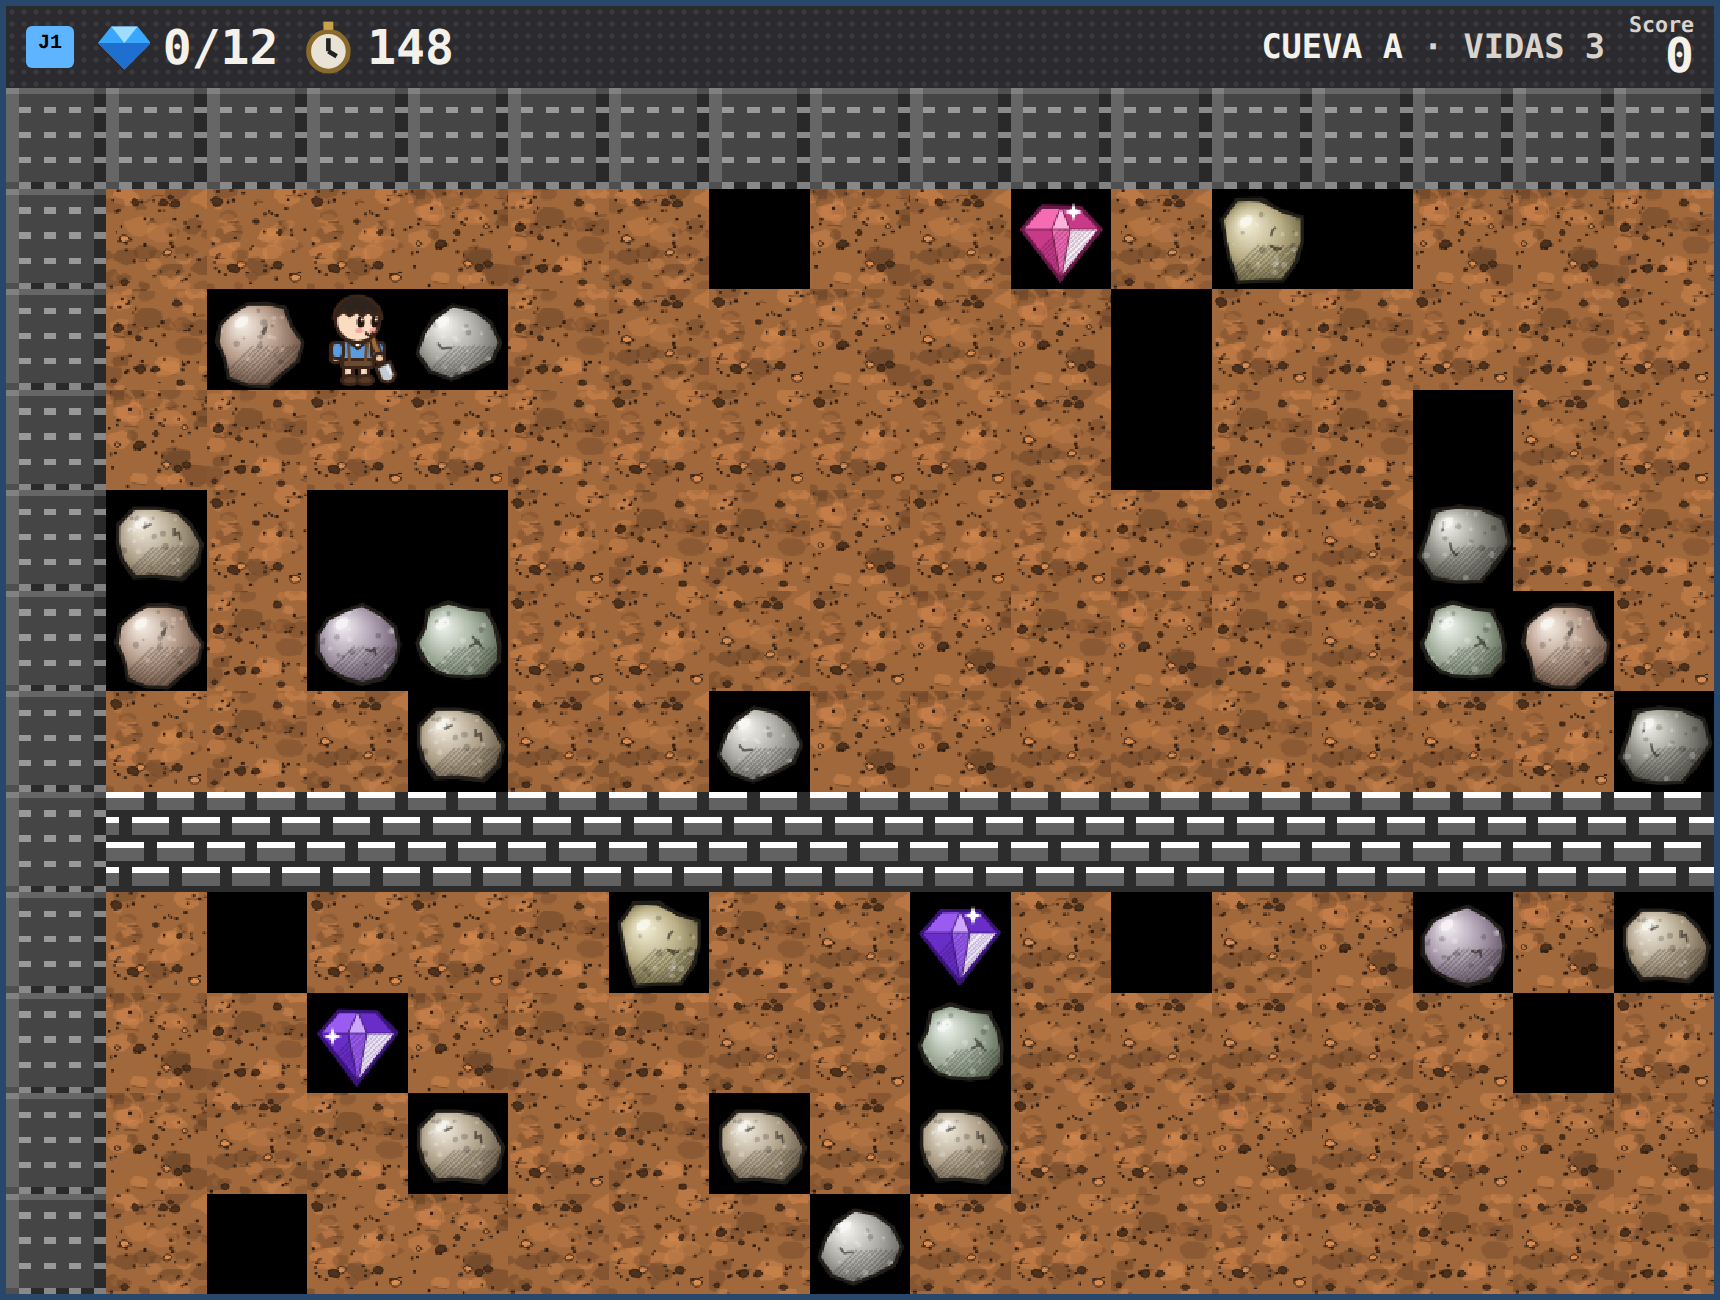
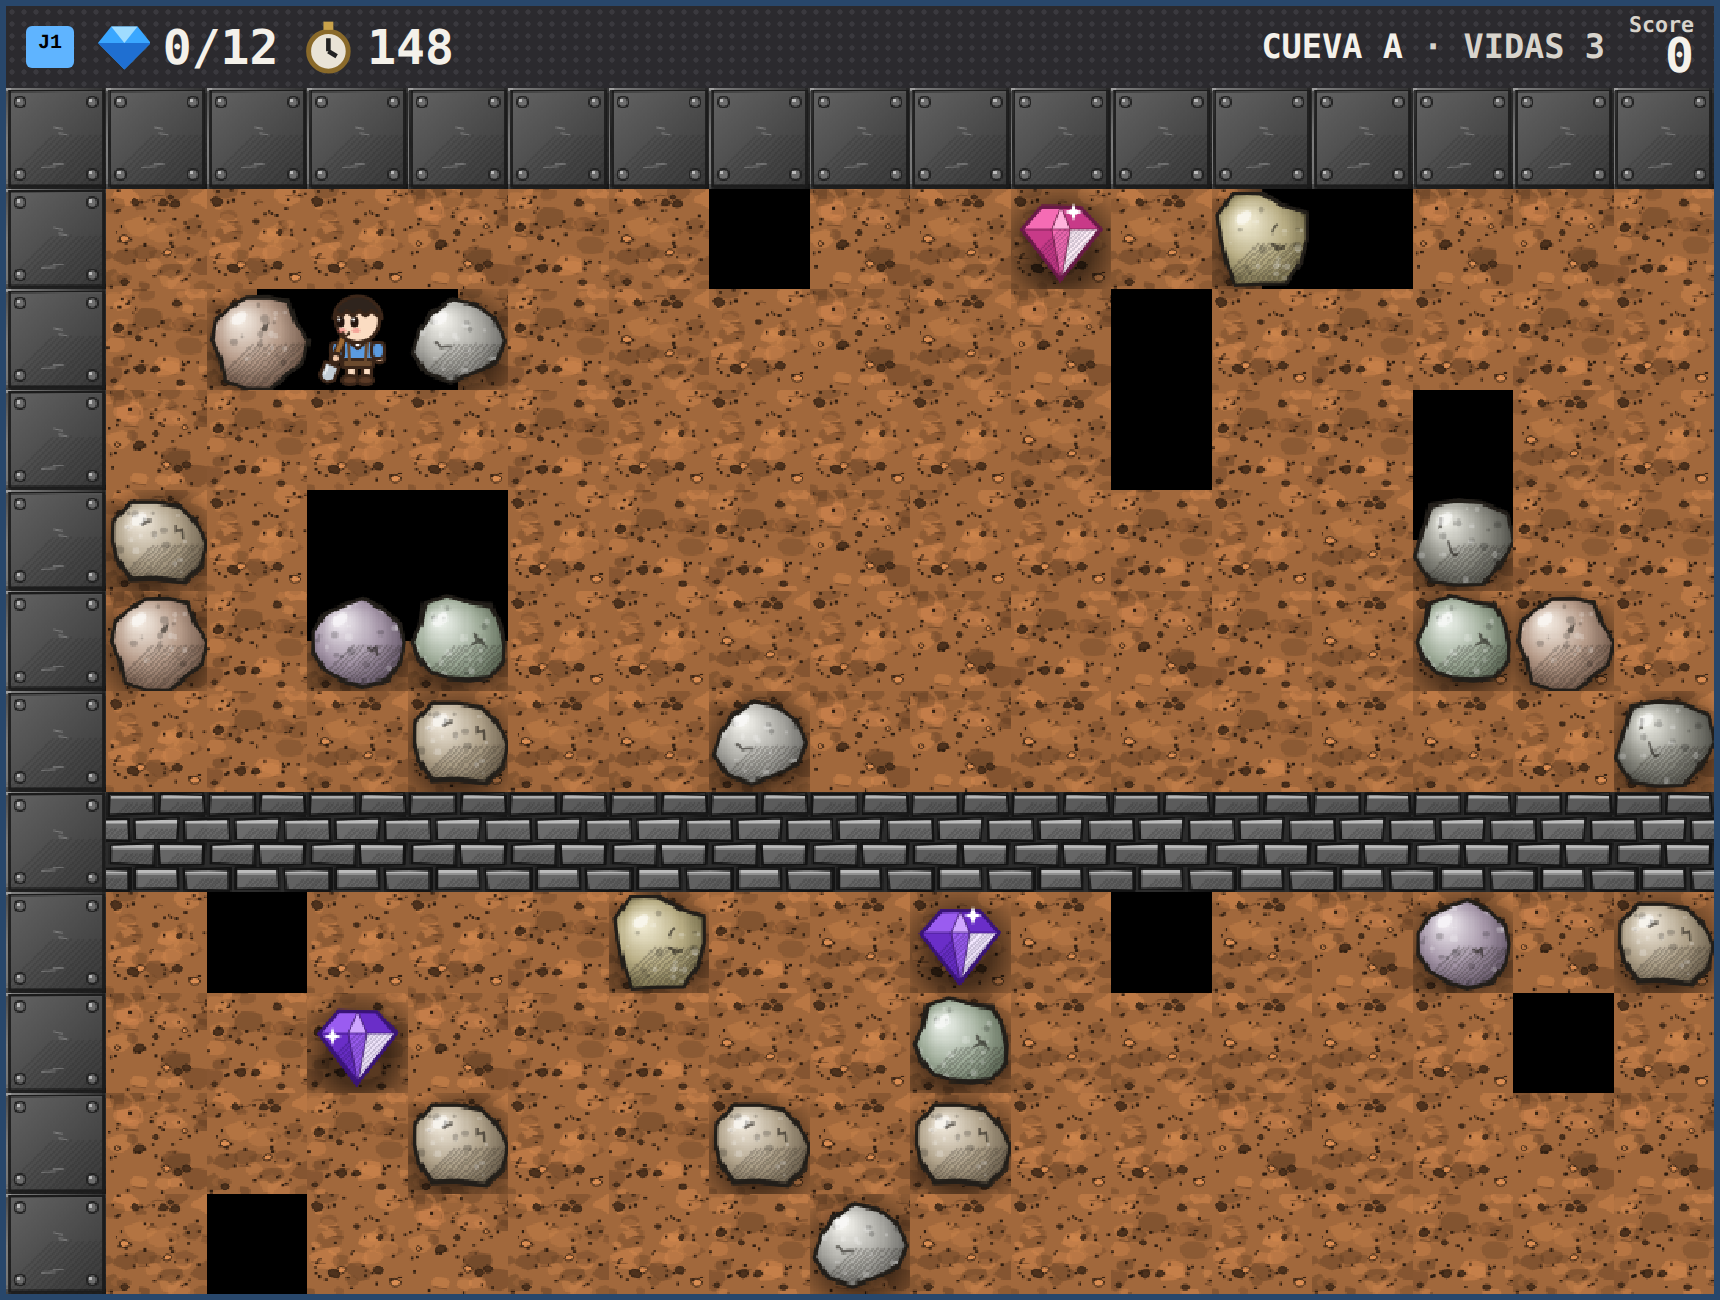
Muros y acero dibujados a mano; rocas y diamantes encajados en la tierra
Claude-Session: https://claude.ai/code/session_016YFeMcHkPfX7Lki2YKdEin

Changed region(s): [[0.0, 0.0615, 1.0, 1.0], [0.1541, 0.7385, 0.3081, 0.9231], [0.1233, 0.2154, 0.3081, 0.3077]]

diff --git a/index.html b/index.html
@@ -1365,6 +1365,44 @@ function hatch(g, R, col, x0, y0, x1, y1, gap){
   g.stroke();
 }
 const blobPts = (cx, cy, r, n, R, rough, sy = 1) => Array.from({ length: n }, (_, k) => { const a = k / n * Math.PI * 2, rr = r * (1 + (R() - .5) * rough); return [cx + Math.cos(a) * rr, cy + Math.sin(a) * rr * sy]; });
+/* Brick wall at 64×64, hand-drawn: uneven bricks with a pencil outline and hatched shading; tiles seamlessly. */
+function wallSprite(br, bh, mo){
+  const c = document.createElement('canvas'); c.width = c.height = 64; const g = c.getContext('2d'), R = rng(321);
+  g.fillStyle = mo; g.fillRect(0, 0, 64, 64);
+  for (let r=0; r<4; r++){
+    const y = r * 16 + 1.5, off = r % 2 ? 16 : 0;
+    for (let x = off - 32; x < 64; x += 32){
+      const pts = [[x + 2, y], [x + 30, y], [x + 30, y + 13], [x + 2, y + 13]].map(([px, py]) => [px + (R() - .5) * 1.6, py + (R() - .5) * 1.4]);
+      [0, 64, -64].forEach(dx => {
+        const pp = pts.map(([px, py]) => [px + dx, py]);
+        shaky(g, pp, R, 0); g.fillStyle = shade(br, .9 + R() * .2); g.fill();
+        g.save(); shaky(g, pp, R, 0); g.clip();
+        g.fillStyle = bh; g.globalAlpha = .55; g.fillRect(x + dx, y, 32, 3); g.globalAlpha = 1;
+        hatch(g, R, 'rgba(0,0,0,.18)', x + dx + 14, y + 6, x + dx + 32, y + 14, 3);
+        g.restore();
+        sketch(g, pp, R, shade(mo, .45), 1.4);
+      });
+    }
+  }
+  return c;
+}
+/* Steel at 64×64: a riveted plate with bevelled edges, scratches and a hand-drawn outline. */
+function steelSprite(st){
+  const c = document.createElement('canvas'); c.width = c.height = 64; const g = c.getContext('2d'), R = rng(654);
+  const gr = g.createLinearGradient(0, 0, 64, 64); gr.addColorStop(0, shade(st, 1.45)); gr.addColorStop(1, shade(st, .8));
+  g.fillStyle = gr; g.fillRect(0, 0, 64, 64);
+  g.fillStyle = 'rgba(255,255,255,.22)'; g.fillRect(0, 0, 64, 3); g.fillRect(0, 0, 3, 64);
+  g.fillStyle = 'rgba(0,0,0,.35)'; g.fillRect(0, 61, 64, 3); g.fillRect(61, 0, 3, 64);
+  hatch(g, R, 'rgba(0,0,0,.12)', 30, 30, 64, 64, 4);
+  g.strokeStyle = 'rgba(255,255,255,.25)'; g.lineWidth = 1; g.beginPath();
+  for (let k=0; k<4; k++){ const x = 8 + R() * 44, y = 8 + R() * 44; g.moveTo(x, y); g.lineTo(x + 4 + R() * 6, y + (R() - .5) * 3); } g.stroke();
+  [[9,9],[55,9],[9,55],[55,55]].forEach(([x, y]) => {
+    g.beginPath(); g.arc(x, y, 3.4, 0, Math.PI * 2); g.fillStyle = shade(st, 1.6); g.fill(); g.lineWidth = 1.2; g.strokeStyle = shade(st, .45); g.stroke();
+    g.fillStyle = 'rgba(255,255,255,.7)'; g.beginPath(); g.arc(x - 1, y - 1, 1, 0, Math.PI * 2); g.fill();
+  });
+  sketch(g, [[1.5,1.5],[62.5,1.5],[62.5,62.5],[1.5,62.5]], R, shade(st, .4), 1.6);
+  return c;
+}
 /* Dirt at 64×64: soft clods in three tones, small pebbles and pencil specks. Four variants break the repetition. */
 function dirtSprite(dm, dd, ds, v){
   const c = document.createElement('canvas'); c.width = c.height = 64; const g = c.getContext('2d'), R = rng(911 + v * 37);
@@ -1388,32 +1426,16 @@ const DVAR = Array.from({ length: W*H }, (_, i) => Math.floor(hash(i * 13 + 7) *
 function makeTiles(pal){
   const [dm, dd, ds, br, bh, mo, st] = pal;
   const DIRT = [0,1,2,3].map(v => dirtSprite(dm, dd, ds, v));
-  const STEEL = (() => {
-    const c = mk(), g = c.getContext('2d');
-    g.fillStyle=st; g.fillRect(0,0,T,T);
-    g.fillStyle='rgba(0,0,0,.4)'; g.fillRect(0,T-1,T,1); g.fillRect(T-2,0,2,T);
-    g.fillStyle='rgba(255,255,255,.18)'; g.fillRect(0,0,T,1); g.fillRect(0,0,2,T);
-    g.fillStyle='rgba(255,255,255,.45)';
-    for (let y=3; y<T; y+=4) for (let x=2; x<T-1; x+=4) g.fillRect(x, y, 2, 1);
-    return c;
-  })();
-  const WALL = (() => {
-    const c = mk(), g = c.getContext('2d');
-    g.fillStyle=mo; g.fillRect(0,0,T,T);
-    for (let r=0; r<4; r++){
-      const y = r*4, off = r % 2 ? -4 : 0;
-      for (let x=off; x<T; x+=8){
-        g.fillStyle=br; g.fillRect(Math.max(0,x), y, Math.min(6, x+6-Math.max(0,x)), 3);
-        g.fillStyle=bh; g.fillRect(Math.max(0,x), y, Math.min(6, x+6-Math.max(0,x)), 1);
-      }
-    }
-    return c;
-  })();
+  const STEEL = steelSprite(st), WALL = wallSprite(br, bh, mo);
+  // exit: a hand-drawn door set in the steel; frame f alternates while it is open
   const EXIT = [0,1].map(f => {
-    const c = mk(), g = c.getContext('2d');
-    g.drawImage(STEEL,0,0);
-    g.fillStyle = f ? '#000' : '#f2f2f2'; g.fillRect(2,2,12,12);
-    g.strokeStyle = f ? '#f2f2f2' : '#000'; g.lineWidth = 2; g.strokeRect(5,5,6,6);
+    const c = document.createElement('canvas'); c.width = c.height = 64; const g = c.getContext('2d'), R = rng(55 + f);
+    g.drawImage(STEEL, 0, 0);
+    const door = [[14,58],[14,14],[50,14],[50,58]];
+    shaky(g, door, R, 0); g.fillStyle = f ? '#1a1208' : '#ffe9a0'; g.fill();
+    if (!f) { const gl = g.createRadialGradient(32, 36, 2, 32, 36, 26); gl.addColorStop(0, '#ffffff'); gl.addColorStop(1, 'rgba(255,200,80,0)'); g.fillStyle = gl; g.fillRect(14, 14, 36, 44); }
+    sketch(g, door, R, '#2a1a0c', 2.6);
+    g.fillStyle = f ? '#ffd24a' : '#7a4a1a'; g.beginPath(); g.arc(44, 38, 2.4, 0, Math.PI * 2); g.fill();
     return c;
   });
   return { DIRT, STEEL, WALL, EXIT };
@@ -2742,6 +2764,24 @@ function renderView(k){
     }
     if (!s) continue;
     const from = src[i];
+    const tt = grid[i];
+    if ((tt === ROCK || tt === GEM) && !(from >= 0 && lerpT < 1)) {
+      // a resting rock or gem sits in the earth: dirt behind it, opened only towards empty neighbours
+      const px = x*T - ox, py = y*T - oy;
+      g.drawImage(TL.DIRT[DVAR[i]], px, py, T, T);
+      const sh = g.createRadialGradient(px + T/2, py + T*.62, T*.3, px + T/2, py + T*.6, T*.72);
+      sh.addColorStop(0, 'rgba(0,0,0,.55)'); sh.addColorStop(1, 'rgba(0,0,0,0)');
+      g.fillStyle = sh; g.fillRect(px, py, T, T);
+      g.fillStyle = '#000';
+      for (let k=0; k<4; k++){
+        const n = grid[i + OFF[k]];
+        if (n === E || n === P1 || n === P2 || n === BOOM || (n === FIRE || n === BUTT)) {
+          if (k === 0) g.fillRect(px, py, T, T/2); else if (k === 1) g.fillRect(px + T/2, py, T/2, T);
+          else if (k === 2) g.fillRect(px, py + T/2, T, T/2); else g.fillRect(px, py, T/2, T);
+        }
+      }
+      if (tt === ROCK) { g.drawImage(s, px - T*.06, py - T*.08, T*1.12, T*1.12); continue; }
+    }
     if (from >= 0 && lerpT < 1) { const k = 1 - lerpT; glide.push([s, (x + (from % W - x) * k) * T - ox, (y + ((from / W | 0) - y) * k) * T - oy]); }
     else g.drawImage(s, x*T - ox, y*T - oy, T, T);
   }

diff --git a/README.md b/README.md
@@ -30,7 +30,11 @@ Los jugadores son un niño (J1, azul) y una niña (J2, naranja), personajes prop
 
 Los dos llevan una pala y la mueven hacia donde cavan (a los lados, arriba o abajo); la tierra se va abriendo desde el centro de la casilla hacia los bordes durante el tick. Las rocas, diamantes, luciérnagas, mariposas, explosiones y la tierra también están dibujados a 64×64, con trazo y sombreado de lápiz como hechos a mano. Hay 8 tipos de roca, diamantes de 6 colores y mariposas de 6 colores; a cada objeto le toca uno al azar y lo conserva al moverse. Todos funcionan igual: solo cambia el dibujo.
 
-![Una cueva con los nuevos dibujos](docs/cueva.png)
+Los muros de ladrillo y el acero (placas remachadas) también están dibujados a mano. Las rocas y diamantes quietos se ven encajados en la tierra: detrás tienen tierra con sombra y solo se abren hacia las casillas vacías; las rocas se dibujan un poco más grandes para que las vecinas se toquen.
+
+Si nadie toca los controles, los niños miran a los lados, saludan, silban marcando el paso con el pie, bostezan y se quedan dormidos apoyados en la pala.
+
+![Una cueva con los nuevos dibujos](docs/cueva.png) ![Durmiendo](docs/durmiendo.png)
 
 ![Personajes y objetos](docs/sprites.png)
 
